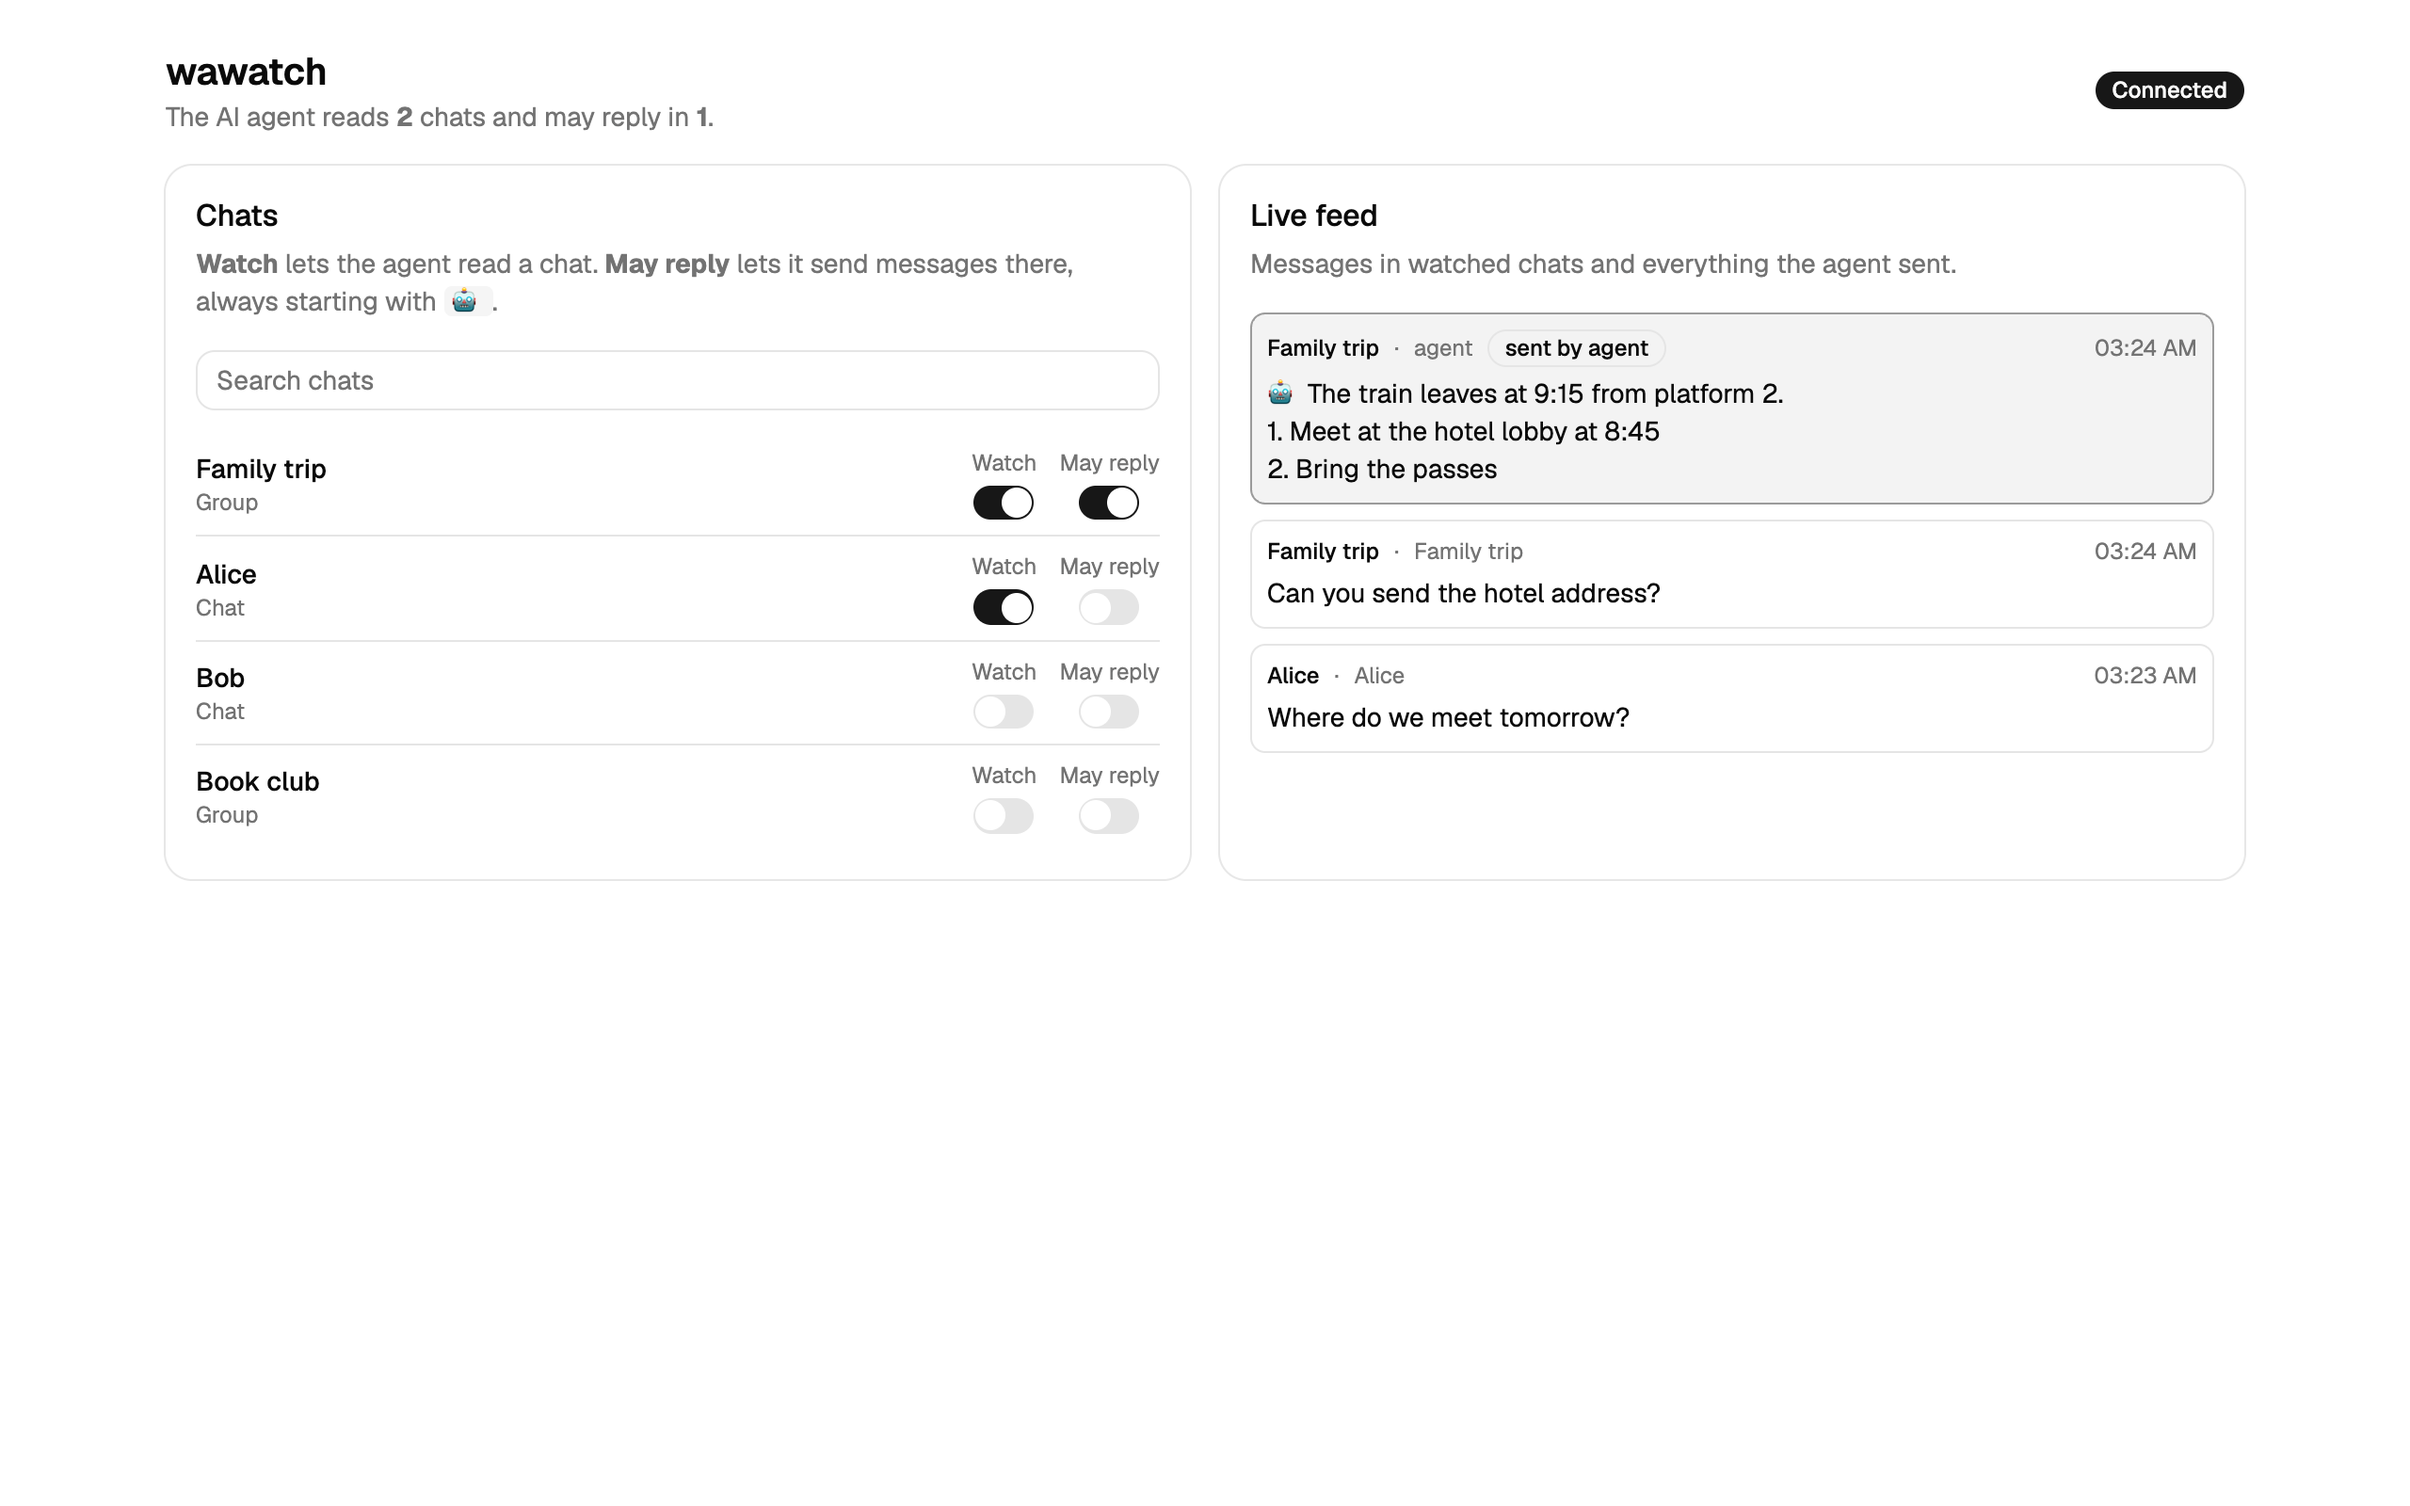
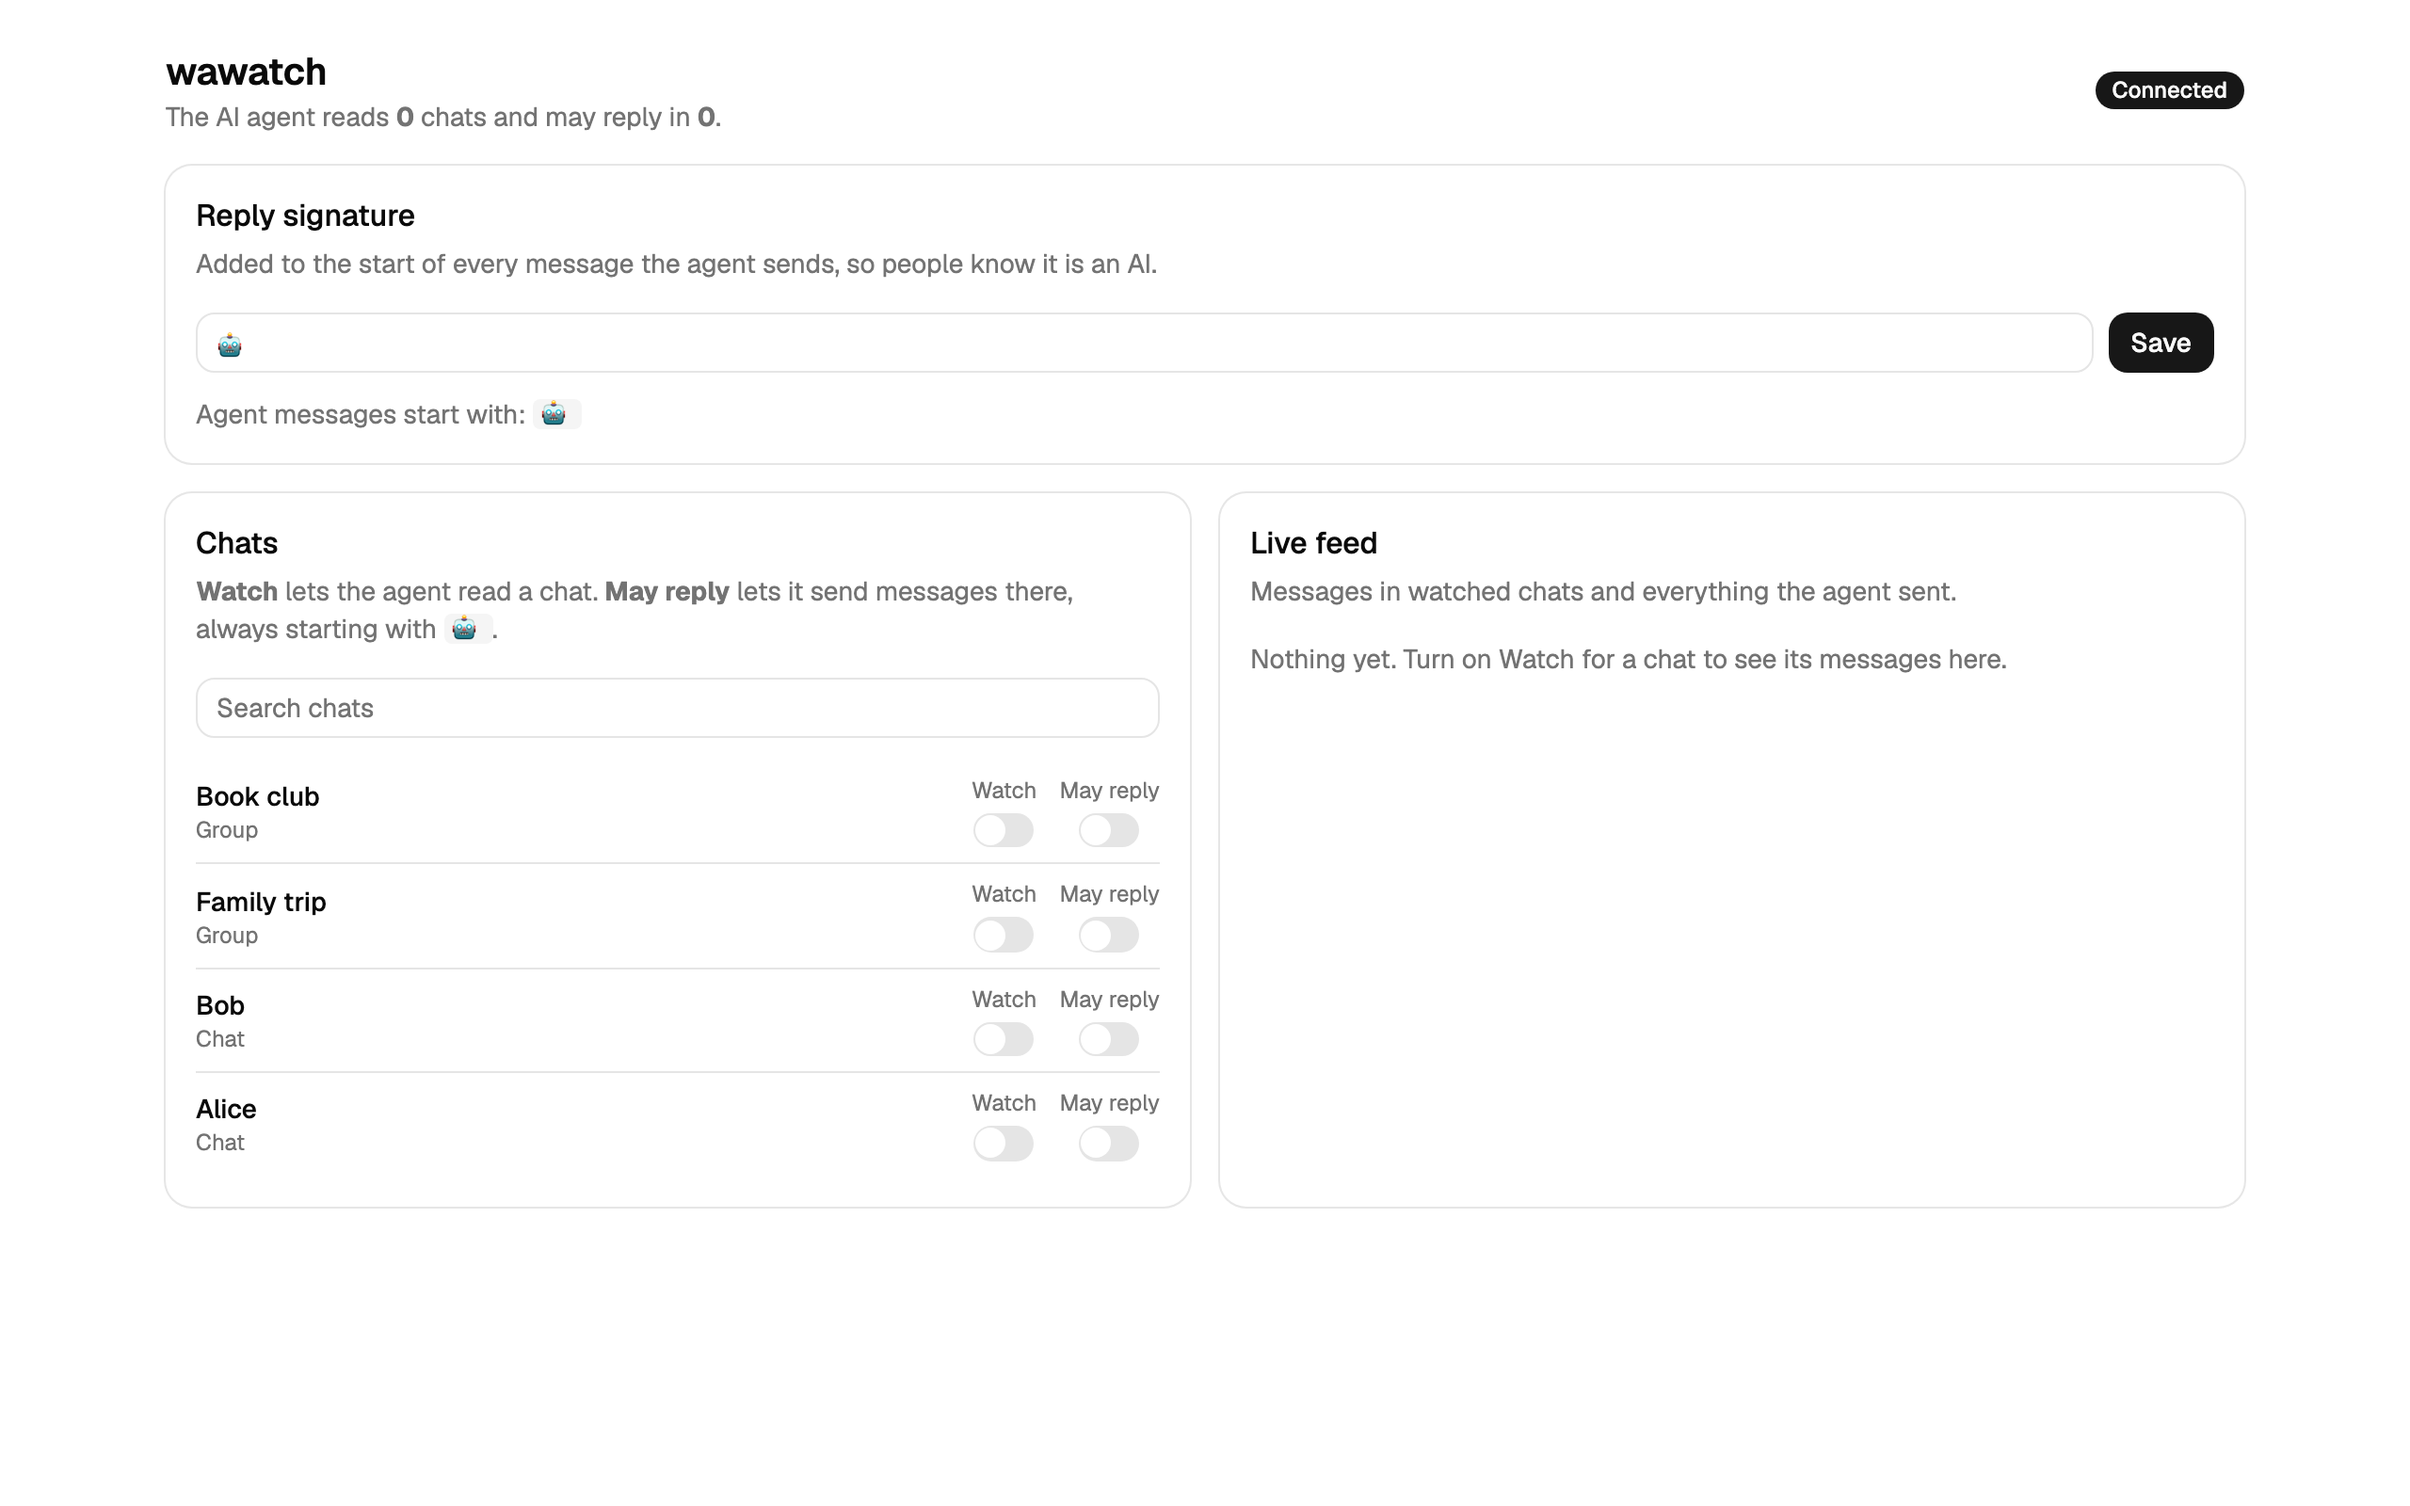
feat: edit the reply signature in the web UI
Store the signature in settings.json; the saved value wins over --signature
and WAWATCH_SIGNATURE once edited. New PATCH /api/signature (same write
checks as the other routes), empty values rejected with 400. MCP tools
cannot change it. Refresh README screenshots.

diff --git a/web/src/App.tsx b/web/src/App.tsx
@@ -1,4 +1,4 @@
-import { useCallback, useEffect, useMemo, useState } from 'react';
+import { useCallback, useEffect, useMemo, useState, type FormEvent } from 'react';
 import { Badge } from '@/components/ui/badge';
 import { Card, CardContent, CardDescription, CardHeader, CardTitle } from '@/components/ui/card';
 import { Input } from '@/components/ui/input';
@@ -44,6 +44,7 @@ export function App() {
   const [state, setState] = useState<State>();
   const [query, setQuery] = useState('');
   const [error, setError] = useState<string>();
+  const [draft, setDraft] = useState<string>();
 
   const refresh = useCallback(() => {
     fetch('/api/state')
@@ -75,6 +76,18 @@ export function App() {
     refresh();
   };
 
+  const saveSignature = async (e: FormEvent<HTMLFormElement>, value: string) => {
+    e.preventDefault();
+    const r = await fetch('/api/signature', {
+      method: 'PATCH',
+      headers: { 'Content-Type': 'application/json' },
+      body: JSON.stringify({ signature: value }),
+    });
+    if (r.ok) setDraft(undefined);
+    else setError((await r.json()).error);
+    refresh();
+  };
+
   const chats = useMemo(
     () => (state?.chats ?? []).filter((c) => c.name.toLowerCase().includes(query.toLowerCase())),
     [state, query],
@@ -87,6 +100,7 @@ export function App() {
   const watched = state.chats.filter((c) => c.watched).length;
   const mayReply = state.chats.filter((c) => c.mayReply).length;
   const status = STATUS[state.status];
+  const signature = draft ?? state.signature;
 
   return (
     <main className="mx-auto flex max-w-6xl flex-col gap-4 p-4 md:p-6">
@@ -120,6 +134,33 @@ export function App() {
           </CardContent>
         </Card>
       )}
+
+      <Card>
+        <CardHeader>
+          <CardTitle>Reply signature</CardTitle>
+          <CardDescription>Added to the start of every message the agent sends, so people know it is an AI.</CardDescription>
+        </CardHeader>
+        <CardContent className="flex flex-col gap-3">
+          <form className="flex flex-col gap-2 sm:flex-row" onSubmit={(e) => saveSignature(e, signature)}>
+            <Input
+              value={signature}
+              onChange={(e) => setDraft(e.target.value)}
+              aria-label="Reply signature"
+              aria-invalid={!signature.trim() || undefined}
+            />
+            <button
+              type="submit"
+              disabled={!signature.trim()}
+              className="h-8 shrink-0 rounded-lg bg-primary px-3 text-sm font-medium text-primary-foreground outline-none transition-colors hover:bg-primary/80 focus-visible:ring-3 focus-visible:ring-ring/50 disabled:pointer-events-none disabled:opacity-50"
+            >
+              Save
+            </button>
+          </form>
+          <p className="break-words text-sm text-muted-foreground">
+            Agent messages start with: <code className="rounded bg-muted px-1">{state.signature.trim()}</code>
+          </p>
+        </CardContent>
+      </Card>
 
       <div className="grid gap-4 lg:grid-cols-[minmax(0,1fr)_minmax(0,1fr)]">
         <Card>

diff --git a/src/hub.ts b/src/hub.ts
@@ -37,12 +37,14 @@ const MAX_TEXT = 4096;
 export class Hub extends EventEmitter implements TransportSink {
   linkStatus: LinkStatus = 'starting';
   qr?: string;
-  readonly signature: string;
+  signature: string;
   private chatMap = new Map<string, Chat>();
   private log: Message[] = [];
   private seq = 0;
   private transport: Transport;
   private dataDir?: string;
+  /** Set only after the user edits the signature in the UI; wins over the CLI value on start. */
+  private savedSignature?: string;
 
   constructor(opts: HubOptions) {
     super();
@@ -114,6 +116,15 @@ export class Hub extends EventEmitter implements TransportSink {
     this.save();
     this.emit('state');
     return chat;
+  }
+
+  /** Changes the signature and saves it. Empty text is refused: every agent message must say it is AI. */
+  setSignature(text: string): string {
+    if (!text.trim()) throw new Error('Signature cannot be empty.');
+    this.signature = this.savedSignature = text;
+    this.save();
+    this.emit('state');
+    return text;
   }
 
   // ---- agent actions ----
@@ -200,8 +211,9 @@ export class Hub extends EventEmitter implements TransportSink {
     mkdirSync(dir, { recursive: true });
     const settings = join(dir, 'settings.json');
     if (existsSync(settings)) {
-      const data = JSON.parse(readFileSync(settings, 'utf8')) as { chats: Chat[] };
+      const data = JSON.parse(readFileSync(settings, 'utf8')) as { chats: Chat[]; signature?: string };
       for (const c of data.chats) this.chatMap.set(c.id, { ...c });
+      if (data.signature?.trim()) this.signature = this.savedSignature = data.signature;
     }
     const messages = join(dir, 'messages.jsonl');
     if (existsSync(messages)) {
@@ -220,6 +232,6 @@ export class Hub extends EventEmitter implements TransportSink {
     if (!this.dataDir) return;
     // Persist only chats with a permission, so the file holds no full chat list.
     const chats = [...this.chatMap.values()].filter((c) => c.watched || c.mayReply);
-    writeFileSync(join(this.dataDir, 'settings.json'), JSON.stringify({ chats }, null, 2));
+    writeFileSync(join(this.dataDir, 'settings.json'), JSON.stringify({ chats, signature: this.savedSignature }, null, 2));
   }
 }

diff --git a/test/server.test.ts b/test/server.test.ts
@@ -1,8 +1,11 @@
 import { Client } from '@modelcontextprotocol/sdk/client/index.js';
 import { StreamableHTTPClientTransport } from '@modelcontextprotocol/sdk/client/streamableHttp.js';
 import { createHmac } from 'node:crypto';
+import { mkdtempSync, rmSync } from 'node:fs';
 import { createServer, request, type RequestListener, type Server } from 'node:http';
 import type { AddressInfo } from 'node:net';
+import { tmpdir } from 'node:os';
+import { join } from 'node:path';
 import { afterEach, describe, expect, it } from 'vitest';
 import { Hub } from '../src/hub.js';
 import { MockTransport } from '../src/mock.js';
@@ -79,6 +82,35 @@ describe('HTTP API safety', () => {
         .end(),
     );
     expect(status).toBe(403);
+  });
+});
+
+describe('reply signature', () => {
+  it('saves a new signature over HTTP, refuses empty ones, and keeps the saved one after restart', async () => {
+    const dataDir = mkdtempSync(join(tmpdir(), 'wawatch-test-'));
+    try {
+      const transport = new MockTransport();
+      const hub = new Hub({ transport, signature: '🤖 ', dataDir });
+      await hub.start();
+      hub.setPermissions('111@s.whatsapp.net', { mayReply: true });
+      const base = await listen(createApp({ hub }) as unknown as RequestListener);
+      const url = base + '/api/signature';
+      const patch = (body: string) => fetch(url, { method: 'PATCH', body, headers: { 'Content-Type': 'application/json' } });
+
+      expect((await patch(JSON.stringify({ signature: '   ' }))).status).toBe(400);
+      expect((await patch(JSON.stringify({ signature: 42 }))).status).toBe(400);
+      expect(hub.signature).toBe('🤖 ');
+
+      expect((await patch(JSON.stringify({ signature: '🧪 ' }))).status).toBe(200);
+      await hub.send('111@s.whatsapp.net', 'hi');
+      expect(transport.sent).toEqual([{ chatId: '111@s.whatsapp.net', text: '🧪 hi' }]);
+
+      // After a restart the saved value wins over the CLI value.
+      const restarted = new Hub({ transport: new MockTransport(), signature: '🤖 ', dataDir });
+      expect(restarted.signature).toBe('🧪 ');
+    } finally {
+      rmSync(dataDir, { recursive: true, force: true });
+    }
   });
 });
 

diff --git a/src/server.ts b/src/server.ts
@@ -73,6 +73,16 @@ export function createApp({ hub, webDir, webhookUrl, webhookSecret }: ServerOpti
     }
   });
 
+  app.patch('/api/signature', (req, res) => {
+    const { signature } = req.body ?? {};
+    if (typeof signature !== 'string') return res.status(400).json({ error: 'signature must be a string' });
+    try {
+      res.json({ signature: hub.setSignature(signature) });
+    } catch (e) {
+      res.status(400).json({ error: (e as Error).message });
+    }
+  });
+
   // For non-MCP agents: read and send over plain HTTP.
   app.get('/api/messages', (req, res) => {
     const since = req.query.since === undefined ? undefined : Number(req.query.since);

diff --git a/README.md b/README.md
@@ -28,7 +28,7 @@ Without this, an agent that watches WhatsApp has to drive WhatsApp Web in a brow
 - The agent reads **only watched chats**. It can ask to watch a chat (`watch_chat`), and you see that in the UI at once.
 - The agent sends **only to chats where you turned on *May reply***. Only the UI (or the local HTTP API) can turn it on, not an MCP tool.
 - Every agent message is logged, marked "sent by agent" in the live feed, and starts with the signature.
-- On disk (`~/.wawatch`): the WhatsApp session keys (`auth/`), your permissions (`settings.json`), and messages from watched chats plus agent messages (`messages.jsonl`). Messages from other chats stay in memory only. Treat `auth/` like a password: anyone with it can use your WhatsApp.
+- On disk (`~/.wawatch`): the WhatsApp session keys (`auth/`), your permissions and reply signature (`settings.json`), and messages from watched chats plus agent messages (`messages.jsonl`). Messages from other chats stay in memory only. Treat `auth/` like a password: anyone with it can use your WhatsApp.
 
 ## Quick start
 
@@ -59,7 +59,7 @@ To try the UI and tools without WhatsApp, run `node dist/cli.js --demo` (fake ch
 | | `WAWATCH_WEBHOOK_SECRET` | off |
 | `--demo` | | off |
 
-Example signature: `--signature "🤖 Claude (Ofek's assistant): "`.
+Example signature: `--signature "🤖 Claude (Ofek's assistant): "`. The flag or env sets the first value; once you save a signature in the UI, it is kept in `settings.json` and wins over the flag and env.
 
 To pair again, stop wawatch and delete `~/.wawatch/auth`.
 
